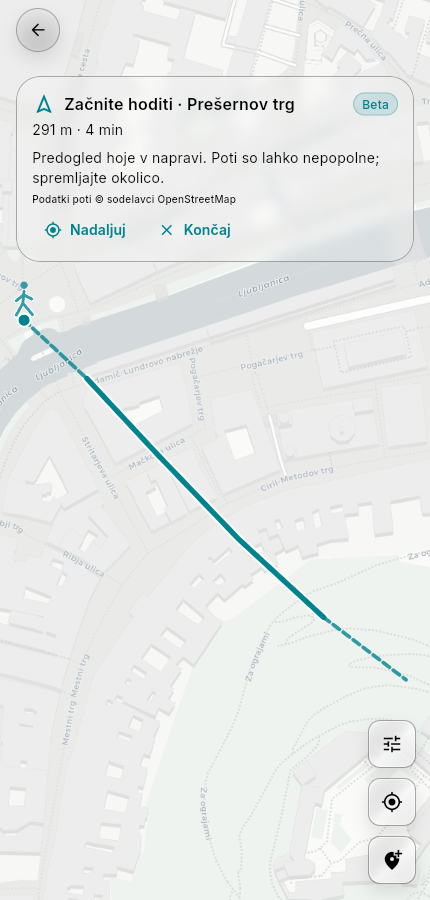
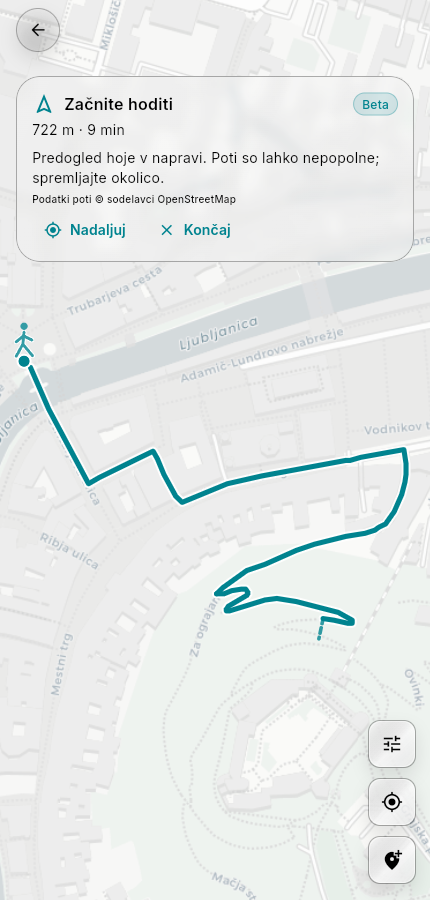
fix(map): use real OSM geometry for the debug route fixture
The harness route was six hand-picked collinear coordinates, so it rendered
as a straight diagonal across the Ljubljanica and through buildings.

That is the wrong shape for a diagnostic fixture. The app must never
substitute a straight line when no connected walking route exists, so a
straight line is the visual signature of a routing failure - a fixture whose
correct output is indistinguishable from that failure cannot be validated by
eye.

The fixture is now the verbatim output of the production
WalkingDirectionsService routing Presernov trg -> Vodnikov trg over live OSM
data, captured once and frozen: 67 points, 728 m, real snap indices (1, 65),
and the router's own 17 maneuvers along Stritarjeva ulica, Mackova ulica,
Medarska ulica, Ciril-Metodov trg, Studentovska ulica, and Za ograjami.

Verified in the real MapLibre runtime: the deterministic route now follows
street geometry identically to a live route, with zero Overpass requests.

diff --git a/lib/features/map/navigation/walking_navigation_debug_harness.dart b/lib/features/map/navigation/walking_navigation_debug_harness.dart
@@ -37,16 +37,86 @@ class WalkingNavigationDebugHarness {
   /// Route path name recognised by the app router in debug builds.
   static const String routeName = '/debug/walking-route';
 
-  /// A short, valid pedestrian route through central Ljubljana.
+  /// A real pedestrian route through central Ljubljana, 728 m.
   ///
-  /// Six points along Prešernov trg -> Trančnjeva/Cankarjevo nabrežje, roughly
-  /// 260 m, well inside a single map viewport at walking zoom levels.
+  /// These are not hand-drawn coordinates. They are the verbatim output of the
+  /// production [WalkingDirectionsService] routing Prešernov trg -> Vodnikov trg
+  /// over live OSM data, captured once and frozen. The path follows Stritarjeva
+  /// ulica, Mačkova ulica, Medarska ulica, Ciril-Metodov trg, Študentovska
+  /// ulica, and Za ograjami.
+  ///
+  /// Real geometry matters here: the app must *never* substitute a straight
+  /// line when no connected walking route exists, so a straight line is the
+  /// visual signature of a routing failure. A fixture that renders as a
+  /// straight diagonal would be indistinguishable from that failure and could
+  /// not be validated by eye. Every turn in this path is a real street corner.
   static const List<LatLng> routePoints = <LatLng>[
     LatLng(46.05130, 14.50607),
-    LatLng(46.05101, 14.50652),
-    LatLng(46.05063, 14.50703),
-    LatLng(46.05021, 14.50761),
-    LatLng(46.04982, 14.50822),
+    LatLng(46.05126, 14.50613),
+    LatLng(46.05099, 14.50630),
+    LatLng(46.05095, 14.50633),
+    LatLng(46.05051, 14.50667),
+    LatLng(46.05055, 14.50677),
+    LatLng(46.05072, 14.50727),
+    LatLng(46.05067, 14.50731),
+    LatLng(46.05057, 14.50737),
+    LatLng(46.05043, 14.50748),
+    LatLng(46.05039, 14.50754),
+    LatLng(46.05051, 14.50796),
+    LatLng(46.05056, 14.50828),
+    LatLng(46.05061, 14.50866),
+    LatLng(46.05066, 14.50906),
+    LatLng(46.05066, 14.50910),
+    LatLng(46.05068, 14.50920),
+    LatLng(46.05073, 14.50960),
+    LatLng(46.05064, 14.50962),
+    LatLng(46.05057, 14.50962),
+    LatLng(46.05052, 14.50961),
+    LatLng(46.05044, 14.50958),
+    LatLng(46.05038, 14.50954),
+    LatLng(46.05033, 14.50951),
+    LatLng(46.05029, 14.50947),
+    LatLng(46.05025, 14.50943),
+    LatLng(46.05023, 14.50937),
+    LatLng(46.05021, 14.50933),
+    LatLng(46.05019, 14.50924),
+    LatLng(46.05017, 14.50906),
+    LatLng(46.05014, 14.50887),
+    LatLng(46.05012, 14.50877),
+    LatLng(46.05008, 14.50860),
+    LatLng(46.04999, 14.50831),
+    LatLng(46.04995, 14.50814),
+    LatLng(46.04993, 14.50810),
+    LatLng(46.04984, 14.50792),
+    LatLng(46.04980, 14.50786),
+    LatLng(46.04980, 14.50789),
+    LatLng(46.04980, 14.50793),
+    LatLng(46.04982, 14.50800),
+    LatLng(46.04983, 14.50809),
+    LatLng(46.04983, 14.50813),
+    LatLng(46.04982, 14.50814),
+    LatLng(46.04981, 14.50815),
+    LatLng(46.04980, 14.50815),
+    LatLng(46.04979, 14.50814),
+    LatLng(46.04972, 14.50797),
+    LatLng(46.04971, 14.50796),
+    LatLng(46.04970, 14.50795),
+    LatLng(46.04969, 14.50795),
+    LatLng(46.04969, 14.50798),
+    LatLng(46.04972, 14.50811),
+    LatLng(46.04974, 14.50822),
+    LatLng(46.04976, 14.50831),
+    LatLng(46.04977, 14.50842),
+    LatLng(46.04975, 14.50860),
+    LatLng(46.04972, 14.50878),
+    LatLng(46.04970, 14.50888),
+    LatLng(46.04968, 14.50899),
+    LatLng(46.04964, 14.50909),
+    LatLng(46.04963, 14.50912),
+    LatLng(46.04961, 14.50912),
+    LatLng(46.04961, 14.50908),
+    LatLng(46.04963, 14.50895),
+    LatLng(46.04964, 14.50885),
     LatLng(46.04951, 14.50881),
   ];
 
@@ -60,35 +130,56 @@ class WalkingNavigationDebugHarness {
         destination: destination,
       );
 
-  /// The canonical harness route. Graph indices deliberately leave one
-  /// connector at each end so casing, route, and connector layers are all
-  /// exercised.
+  /// The canonical harness route, exactly as the production router produced it.
+  ///
+  /// The graph indices are the real snap indices (1 and 65), so the origin and
+  /// destination connectors are genuine graph-snap segments and the casing,
+  /// route, and connector layers are all exercised.
   static WalkingRoute get route => WalkingRoute(
         points: routePoints,
-        steps: <WalkingRouteStep>[
-          WalkingRouteStep(
-            type: 'depart',
-            modifier: '',
-            roadName: 'Prešernov trg',
-            location: routePoints.first,
-            distanceMeters: 120,
-            durationSeconds: 95,
-            geometryIndex: 0,
-          ),
-          WalkingRouteStep(
-            type: 'arrive',
-            modifier: '',
-            roadName: 'Cankarjevo nabrežje',
-            location: routePoints.last,
-            distanceMeters: 0,
-            durationSeconds: 0,
-            geometryIndex: routePoints.length - 1,
-          ),
-        ],
-        distanceMeters: 260,
-        durationSeconds: 205,
+        steps: _steps,
+        distanceMeters: 728,
+        durationSeconds: 539.3,
         graphStartIndex: 1,
-        graphEndIndex: routePoints.length - 2,
+        graphEndIndex: 65,
+      );
+
+  static List<WalkingRouteStep> get _steps => <WalkingRouteStep>[
+        _step('depart', 'straight', '', 0, 39, 28.9),
+        _step('turn', 'straight', 'Stritarjeva ulica', 2, 61, 45.2),
+        _step('turn', 'left', 'Mačkova ulica', 4, 52, 38.5),
+        _step('turn', 'right', 'Medarska ulica', 6, 43, 31.9),
+        _step('turn', 'left', 'Ciril-Metodov trg', 10, 165, 122.2),
+        _step('turn', 'right', 'Študentovska ulica', 17, 73, 54.1),
+        _step('turn', 'straight', 'Za ograjami', 28, 116, 85.9),
+        _step('turn', 'left', '', 37, 21, 15.6),
+        _step('turn', 'slight right', '', 42, 1, 0.7),
+        _step('turn', 'slight right', '', 43, 1, 0.7),
+        _step('turn', 'slight right', '', 44, 1, 0.7),
+        _step('turn', 'slight right', '', 45, 21, 15.6),
+        _step('turn', 'left', '', 50, 95, 70.4),
+        _step('turn', 'right', '', 61, 2, 1.5),
+        _step('turn', 'right', '', 62, 22, 16.3),
+        _step('turn', 'left', '', 65, 15, 11.1),
+        _step('arrive', 'straight', '', 66, 0, 0),
+      ];
+
+  static WalkingRouteStep _step(
+    String type,
+    String modifier,
+    String roadName,
+    int geometryIndex,
+    double distanceMeters,
+    double durationSeconds,
+  ) =>
+      WalkingRouteStep(
+        type: type,
+        modifier: modifier,
+        roadName: roadName,
+        location: routePoints[geometryIndex],
+        distanceMeters: distanceMeters,
+        durationSeconds: durationSeconds,
+        geometryIndex: geometryIndex,
       );
 }
 